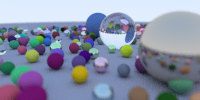
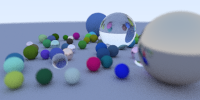
refactored out some World stuff

diff --git a/src/main.rs b/src/main.rs
@@ -18,16 +18,10 @@ mod snrt;
 use snmath::Vector3;
 use snmath::Ray;
 
-use snrt::Sphere;
-use snrt::Hitable;
 use snrt::Camera;
-use snrt::material::Lambertian;
-use snrt::material::Metallic;
-use snrt::material::Dielectric;
+use snrt::world::World;
 
-fn color(r: Ray, world: &Vec<Box<Hitable + Sync + Send>>, bounce: i32) -> Vector3 {
-    let world_iter = world.iter();
-
+fn color(r: Ray, world: &World, bounce: i32) -> Vector3 {
     if bounce > 50 {
         return Vector3::default();
     }
@@ -35,18 +29,7 @@ fn color(r: Ray, world: &Vec<Box<Hitable + Sync + Send>>, bounce: i32) -> Vector
     let max_t = 100000.0;
     let min_t = 0.001;
 
-    let mut best:(f32, Option<&Box<Hitable + Sync + Send>>) = (std::f32::MAX, None);
-    for hitable in world_iter {
-        let res = hitable.hit_check(&r, min_t, max_t);
-        if res.is_some() {
-            let new_t = res.unwrap();
-
-            if new_t < best.0 {
-                best.0 = new_t;
-                best.1 = Some(hitable);
-            }
-        }
-    }
+    let best = world.trace(r, min_t, max_t);
 
     match best.1 {
         Some(b) => {
@@ -67,7 +50,12 @@ fn color(r: Ray, world: &Vec<Box<Hitable + Sync + Send>>, bounce: i32) -> Vector
 
 fn main() -> std::io::Result<()> {
     let args: Vec<String> = std::env::args().collect();
-    let mut main_rng = thread_rng();
+
+    if args.len() < 3 {
+        println!("run with two digits for width and height");
+        return Ok(());
+    }
+
 
     let start_time = time::precise_time_s();
 
@@ -92,48 +80,9 @@ fn main() -> std::io::Result<()> {
     let look_from = Vector3 {x:7.0,y:2.0,z:2.0};
     let look_at = Vector3 {x:0.0,y:0.0,z:0.0};
     let focal_dist = (look_from-look_at).length();
-
     let cam = Camera::create_camera(look_from, look_at, Vector3 {x:0.0,y:1.0,z:0.0}, 40.0, f_width/f_height, 0.3, focal_dist);
 
-    let mut world: Vec<Box<Hitable + Sync + Send>> = Vec::new();
-    world.push(Box::new(Sphere {pos: Vector3 {x:0.0, y:-1000.0, z:0.0}, radius: 1000.0, 
-                                material:Box::new(Lambertian{albedo:Vector3{x:0.4,y:0.4,z:0.5}})}));
-
-    let ball_min = -4;
-    let ball_max = 4;
-    for a in ball_min..ball_max {
-        for b in ball_min..ball_max {
-            let mat_val = main_rng.gen_range::<f32>(0.0,1.0);
-            let rad = main_rng.gen_range::<f32>(0.0,1.0) * 0.1 + 0.2;
-            let center = Vector3 {x:a as f32 + 0.9 * main_rng.gen_range::<f32>(0.0,1.0), y:rad, z:b as f32 + 0.9*main_rng.gen_range::<f32>(0.0,1.0) };
-            if mat_val < 0.8 {
-                world.push(Box::new(Sphere {pos:center, radius: rad,
-                                material:Box::new(Lambertian{albedo:Vector3{x:main_rng.gen_range::<f32>(0.0,1.0)*main_rng.gen_range::<f32>(0.0,1.0),
-                                                                            y:main_rng.gen_range::<f32>(0.0,1.0)*main_rng.gen_range::<f32>(0.0,1.0),
-                                                                            z:main_rng.gen_range::<f32>(0.0,1.0)*main_rng.gen_range::<f32>(0.0,1.0)}})}));
-            }
-            else if mat_val < 0.95 {
-                world.push(Box::new(Sphere {pos:center, radius: rad,
-                                material:Box::new(Metallic{ albedo:Vector3{ x:0.5*(1.0+main_rng.gen_range::<f32>(0.0,1.0)),
-                                                                            y:0.5*(1.0+main_rng.gen_range::<f32>(0.0,1.0)),
-                                                                            z:0.5*(1.0+main_rng.gen_range::<f32>(0.0,1.0))},
-                                                            roughness:0.5*main_rng.gen_range::<f32>(0.0,1.0)})}));
-
-            }
-            else {
-                world.push(Box::new(Sphere {pos:center, radius: rad,
-                                material:Box::new(Dielectric{ior:1.5})}));
-            }
-        }
-    }
-
-
-    world.push(Box::new(Sphere {pos: Vector3 {x:-4.0, y:1.0, z:-1.0}, radius: 1.0,
-                                material:Box::new(Lambertian{albedo:Vector3{x:0.1,y:0.2,z:0.5}})}));
-    world.push(Box::new(Sphere {pos: Vector3 {x:4.0, y:1.0, z:-1.0}, radius: 1.0,
-                                material:Box::new(Metallic{albedo:Vector3{x:0.7,y:0.6,z:0.5},roughness:0.1})}));
-    world.push(Box::new(Sphere {pos: Vector3 {x:0.0, y:1.0, z:-1.0}, radius: 1.0, 
-                                material:Box::new(Dielectric{ior:1.5})}));
+    let world = World::create();
 
     let buffer_stride = 3;
     let mut buffer_rgb: Vec<u8> = Vec::new();
@@ -141,10 +90,10 @@ fn main() -> std::io::Result<()> {
     let mut thread_jobs = Vec::new();
     for y in 0..height {
         let mut line: Vec<u8> = vec![0;(width*buffer_stride) as usize];
-        thread_jobs.push((y,line,&world)); // should world be an arc?
+        thread_jobs.push((y,line,&world)); // should world be an arc? is this copying all of world or just the pointer?
     }
 
-    let mut pool = Pool::new(4);
+    let mut pool = Pool::new(16);
 
     pool.scoped( |scope| {
         for e in &mut thread_jobs {

diff --git a/src/snrt/world.rs b/src/snrt/world.rs
@@ -1,0 +1,81 @@
+extern crate rand;
+use rand::{thread_rng, Rng};
+
+use snmath::Vector3;
+use snmath::Ray;
+
+use snrt::Hitable;
+use snrt::Sphere;
+use snrt::material::Lambertian;
+use snrt::material::Metallic;
+use snrt::material::Dielectric;
+
+pub struct World {
+    pub entities: Vec<Box<Hitable + Sync>>,
+}
+
+impl World {
+    pub fn trace(&self, r: Ray, min_t: f32, max_t: f32) -> (f32, Option<&Box<Hitable + Sync>>) {
+        let world_iter = self.entities.iter();
+        let mut best:(f32, Option<&Box<Hitable + Sync>>) = (::std::f32::MAX, None);
+        for hitable in world_iter {
+            let res = hitable.hit_check(&r, min_t, max_t);
+            if res.is_some() {
+                let new_t = res.unwrap();
+
+                if new_t < best.0 {
+                    best.0 = new_t;
+                    best.1 = Some(hitable);
+                }
+            }
+        }
+
+        return best;
+    }
+
+    pub fn create() -> World {
+        let mut new_world = World { entities: Vec::new() };
+        let mut world_rng = thread_rng();
+
+        new_world.entities.push(Box::new(Sphere {pos: Vector3 {x:0.0, y:-1000.0, z:0.0}, radius: 1000.0, 
+                            material:Box::new(Lambertian{albedo:Vector3{x:0.4,y:0.4,z:0.5}})}));
+
+        let ball_min = -4;
+        let ball_max = 4;
+        for a in ball_min..ball_max {
+            for b in ball_min..ball_max {
+                let mat_val = world_rng.gen_range::<f32>(0.0,1.0);
+                let rad = world_rng.gen_range::<f32>(0.0,1.0) * 0.1 + 0.2;
+                let center = Vector3 {x:a as f32 + 0.9 * world_rng.gen_range::<f32>(0.0,1.0), y:rad, z:b as f32 + 0.9*world_rng.gen_range::<f32>(0.0,1.0) };
+                if mat_val < 0.8 {
+                    new_world.entities.push(Box::new(Sphere {pos:center, radius: rad,
+                                    material:Box::new(Lambertian{albedo:Vector3{x:world_rng.gen_range::<f32>(0.0,1.0)*world_rng.gen_range::<f32>(0.0,1.0),
+                                                                                y:world_rng.gen_range::<f32>(0.0,1.0)*world_rng.gen_range::<f32>(0.0,1.0),
+                                                                                z:world_rng.gen_range::<f32>(0.0,1.0)*world_rng.gen_range::<f32>(0.0,1.0)}})}));
+                }
+                else if mat_val < 0.95 {
+                    new_world.entities.push(Box::new(Sphere {pos:center, radius: rad,
+                                    material:Box::new(Metallic{ albedo:Vector3{ x:0.5*(1.0+world_rng.gen_range::<f32>(0.0,1.0)),
+                                                                                y:0.5*(1.0+world_rng.gen_range::<f32>(0.0,1.0)),
+                                                                                z:0.5*(1.0+world_rng.gen_range::<f32>(0.0,1.0))},
+                                                                roughness:0.5*world_rng.gen_range::<f32>(0.0,1.0)})}));
+
+                }
+                else {
+                    new_world.entities.push(Box::new(Sphere {pos:center, radius: rad,
+                                    material:Box::new(Dielectric{ior:1.5})}));
+                }
+            }
+        }
+
+
+        new_world.entities.push(Box::new(Sphere {pos: Vector3 {x:-4.0, y:1.0, z:-1.0}, radius: 1.0,
+                                    material:Box::new(Lambertian{albedo:Vector3{x:0.1,y:0.2,z:0.5}})}));
+        new_world.entities.push(Box::new(Sphere {pos: Vector3 {x:4.0, y:1.0, z:-1.0}, radius: 1.0,
+                                    material:Box::new(Metallic{albedo:Vector3{x:0.7,y:0.6,z:0.5},roughness:0.1})}));
+        new_world.entities.push(Box::new(Sphere {pos: Vector3 {x:0.0, y:1.0, z:-1.0}, radius: 1.0, 
+                                    material:Box::new(Dielectric{ior:1.5})}));
+
+        return new_world;
+    }
+}

diff --git a/src/snrt/mod.rs b/src/snrt/mod.rs
@@ -5,6 +5,7 @@ use snmath::Vector3;
 use snmath::Ray;
 
 pub mod material;
+pub mod world;
 
 #[derive(Clone,Copy,PartialEq,Default,Debug)]
 pub struct Camera {
@@ -55,7 +56,7 @@ pub trait Hitable {
 pub struct Sphere {
     pub pos: Vector3,
     pub radius: f32,
-    pub material: Box<material::Material + Sync + Send>,
+    pub material: Box<material::Material + Sync>,
 }
 
 impl Hitable for Sphere {
